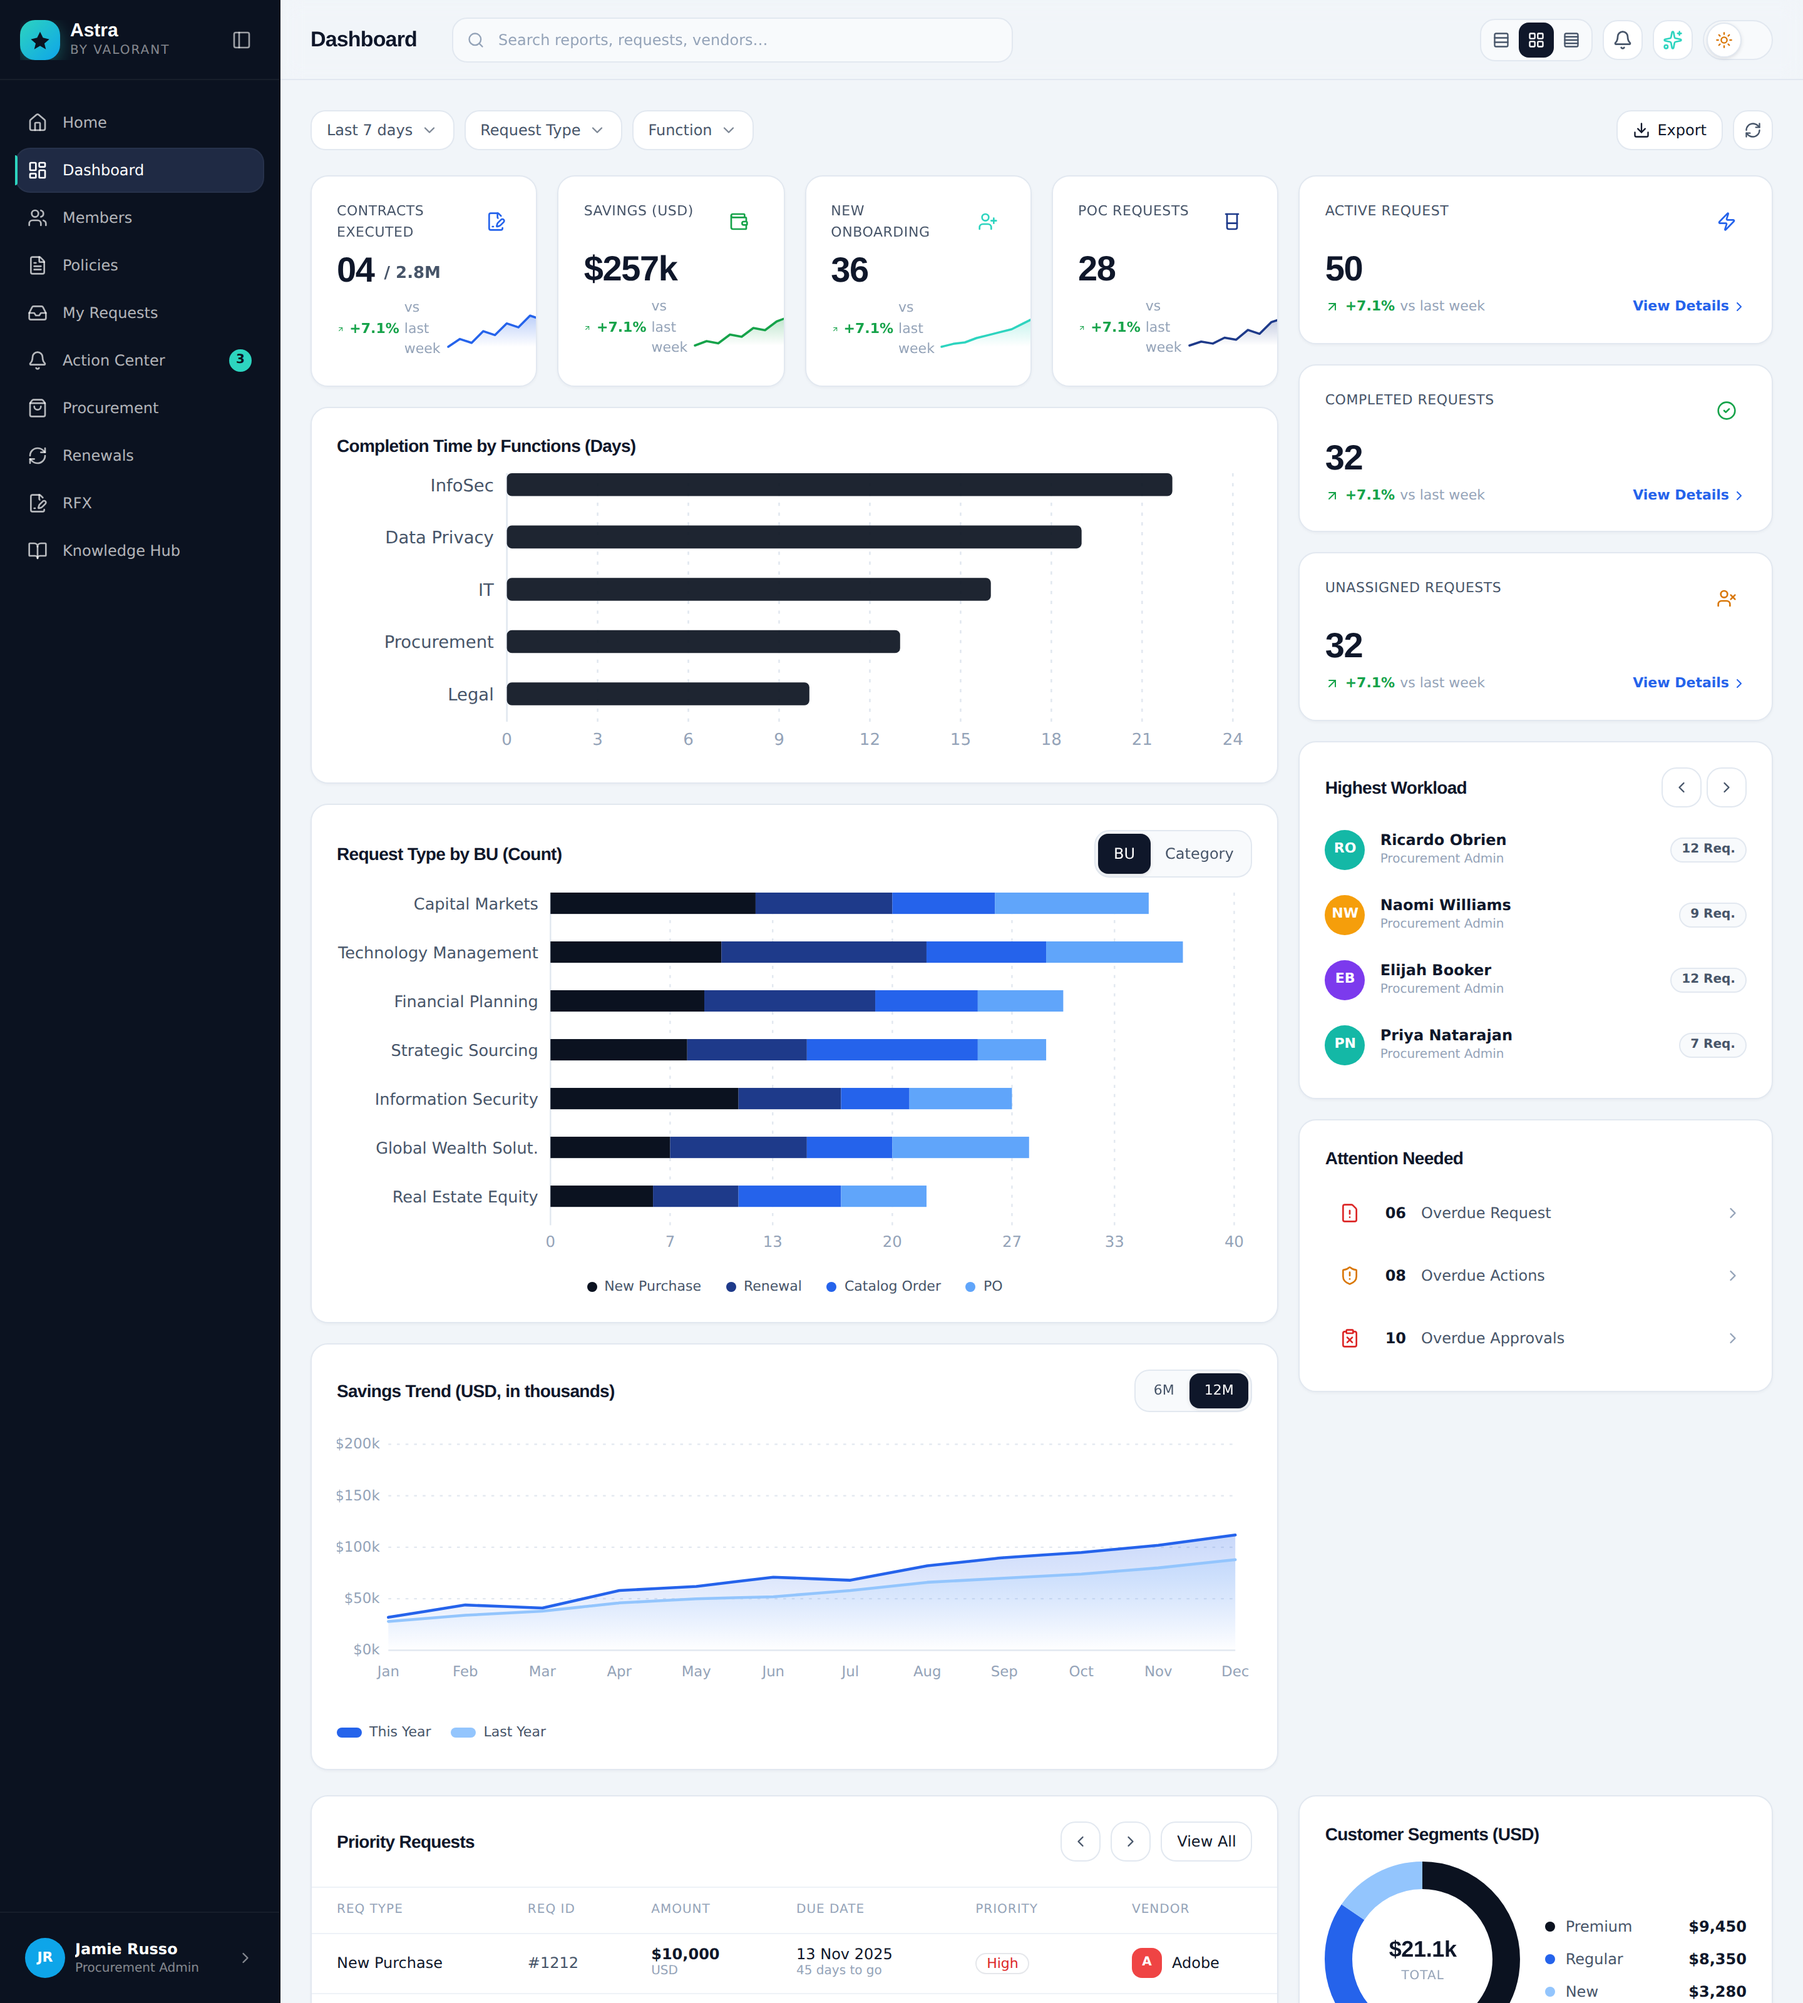
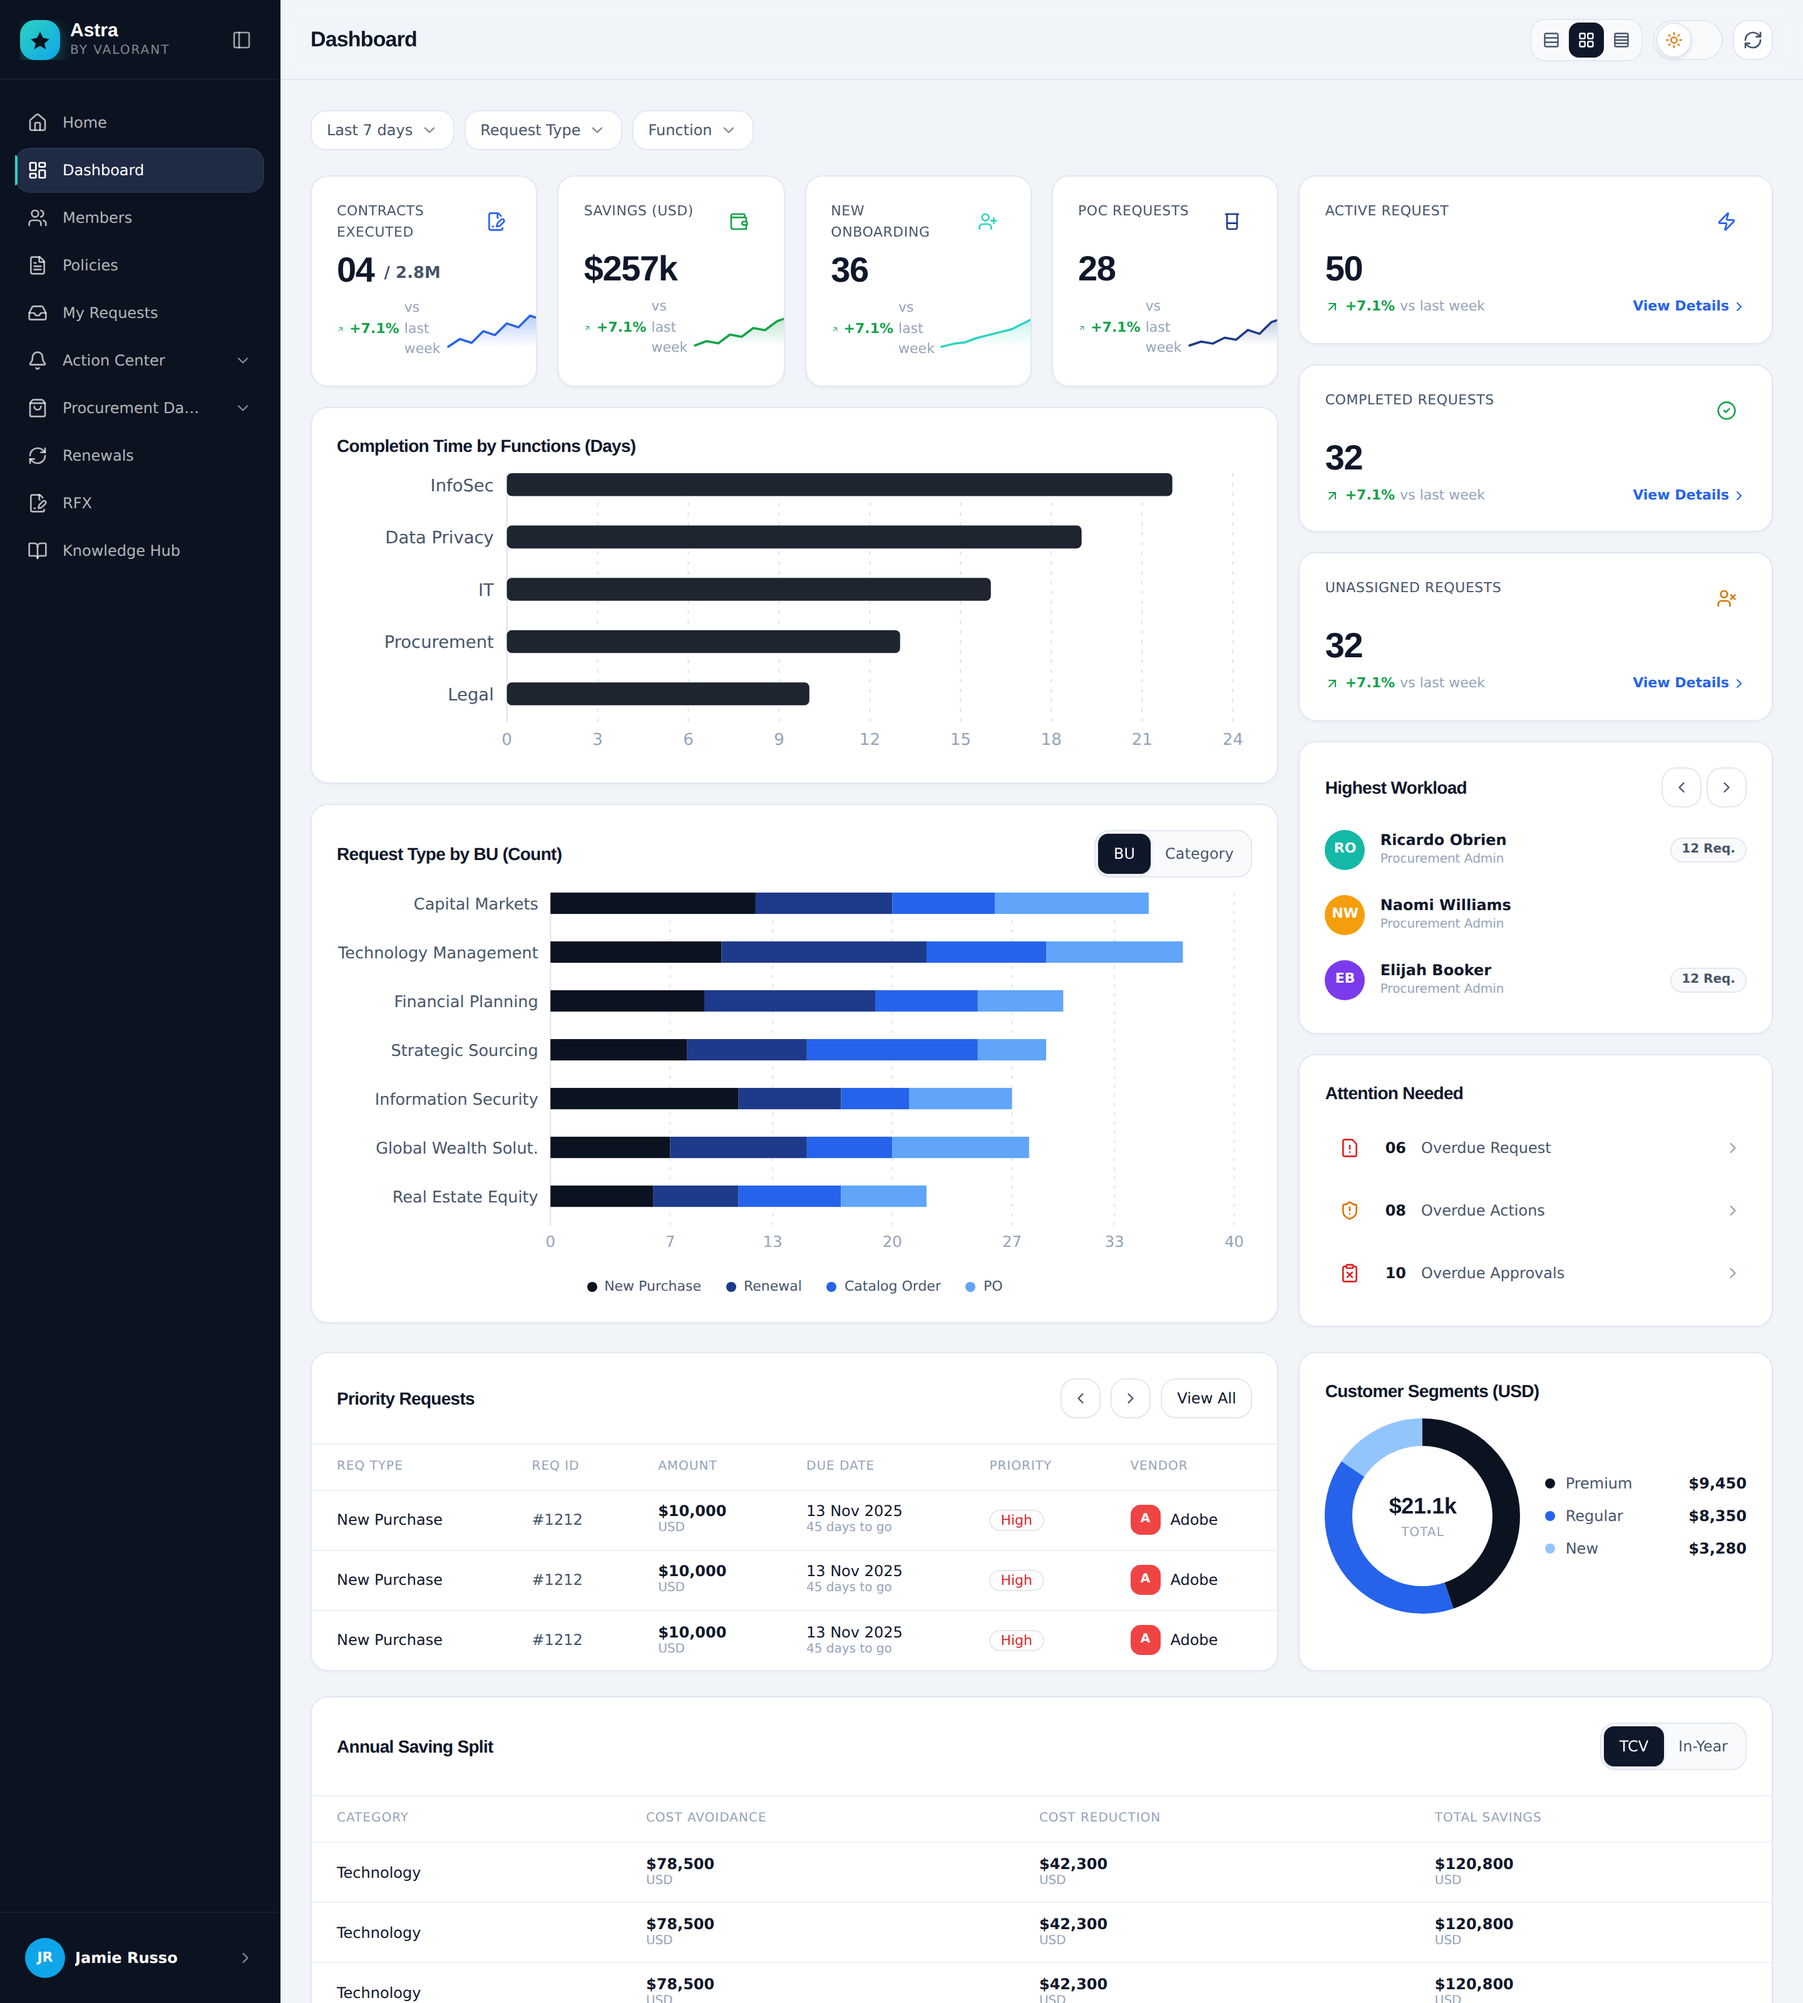
refactor: align dashboard to internal Figma design exactly
Trims extras that weren't in the Figma reference and matches the reference
data + layout pixel-for-pixel in both light and dark mode:

- Topbar: drop search, notifications, AI button; keep title + density +
  theme + refresh as per Figma
- Filters row: drop Export button + standalone refresh
- Sidebar: Action Center + Procurement are expandable (chevron-down),
  badge removed from Action Center; user block shows only name
- Page: drop Savings Trend chart (not in Figma)
- Data: Priority Requests 3 identical rows, Annual Savings 3 Technology
  rows, Workload list 3 people with badge on 1st + 3rd

diff --git a/components/layout/topbar.tsx b/components/layout/topbar.tsx
@@ -1,7 +1,7 @@
 "use client";
 
 import { motion, AnimatePresence } from "framer-motion";
-import { Moon, Sun, Search, Bell, Sparkles, LayoutGrid, Rows3, Rows4 } from "lucide-react";
+import { Moon, Sun, RefreshCw, LayoutGrid, Rows3, Rows4 } from "lucide-react";
 import { useUI, type Density } from "@/components/providers/ui-provider";
 import { IconButton } from "@/components/ui/icon-button";
 import { cn } from "@/lib/cn";
@@ -25,30 +25,12 @@ export function Topbar({ title }: { title: string }) {
         {title}
       </motion.h1>
 
-      <div className="hidden md:flex items-center ml-4 gap-2 flex-1 max-w-md">
-        <div className="flex-1 relative">
-          <Search className="absolute left-3 top-1/2 -translate-y-1/2 h-3.5 w-3.5 text-app-text-subtle" />
-          <input
-            placeholder="Search reports, requests, vendors…"
-            className={cn(
-              "w-full h-9 pl-9 pr-3 rounded-lg text-xs",
-              "bg-app-surface-2 border border-app-border text-app-text",
-              "placeholder:text-app-text-subtle",
-              "focus:outline-none focus:border-app-accent focus:ring-2 focus:ring-app-accent/20",
-            )}
-          />
-        </div>
-      </div>
-
       <div className="ml-auto flex items-center gap-2">
         <DensityControl density={density} onChange={setDensity} />
-        <IconButton aria-label="Notifications">
-          <Bell className="h-4 w-4" />
-        </IconButton>
-        <IconButton aria-label="AI assistant" title="AI insights">
-          <Sparkles className="h-4 w-4 text-app-teal" />
-        </IconButton>
         <ThemeToggle theme={theme} onToggle={toggleTheme} />
+        <IconButton aria-label="Refresh">
+          <RefreshCw className="h-4 w-4" />
+        </IconButton>
       </div>
     </header>
   );
@@ -56,9 +38,9 @@ export function Topbar({ title }: { title: string }) {
 
 function DensityControl({ density, onChange }: { density: Density; onChange: (d: Density) => void }) {
   const items: Array<{ v: Density; Icon: typeof Rows3; label: string }> = [
-    { v: "airy",      Icon: Rows3,    label: "Airy layout" },
-    { v: "balanced",  Icon: LayoutGrid, label: "Balanced layout" },
-    { v: "dense",     Icon: Rows4,    label: "Dense layout" },
+    { v: "airy",     Icon: Rows3,     label: "Airy layout"     },
+    { v: "balanced", Icon: LayoutGrid, label: "Balanced layout" },
+    { v: "dense",    Icon: Rows4,     label: "Dense layout"    },
   ];
   return (
     <div

diff --git a/components/layout/sidebar.tsx b/components/layout/sidebar.tsx
@@ -13,6 +13,7 @@ import {
   FileSignature,
   BookOpen,
   ChevronRight,
+  ChevronDown,
   PanelLeft,
 } from "lucide-react";
 import type { ComponentType, SVGProps } from "react";
@@ -24,7 +25,7 @@ type NavItem = {
   label: string;
   icon: ComponentType<SVGProps<SVGSVGElement>>;
   active?: boolean;
-  badge?: number;
+  expandable?: boolean;
 };
 
 const nav: NavItem[] = [
@@ -33,8 +34,8 @@ const nav: NavItem[] = [
   { label: "Members",        icon: Users },
   { label: "Policies",       icon: FileText },
   { label: "My Requests",    icon: Inbox },
-  { label: "Action Center",  icon: Bell, badge: 3 },
-  { label: "Procurement",    icon: ShoppingBag },
+  { label: "Action Center",  icon: Bell,         expandable: true },
+  { label: "Procurement Da…",icon: ShoppingBag,  expandable: true },
   { label: "Renewals",       icon: RefreshCw },
   { label: "RFX",            icon: FileSignature },
   { label: "Knowledge Hub",  icon: BookOpen },
@@ -96,7 +97,6 @@ export function Sidebar() {
             <>
               <div className="flex-1 min-w-0">
                 <div className="text-xs font-semibold text-white truncate">Jamie Russo</div>
-                <div className="text-[10px] text-white/50 truncate">Procurement Admin</div>
               </div>
               <ChevronRight className="h-3.5 w-3.5 text-white/50" />
             </>
@@ -127,10 +127,8 @@ function SidebarItem({ item, collapsed }: { item: NavItem; collapsed: boolean })
       )}
       <Icon className="h-4 w-4 shrink-0" />
       {!collapsed && <span className="flex-1 text-left truncate">{item.label}</span>}
-      {!collapsed && item.badge ? (
-        <span className="ml-auto inline-flex items-center justify-center min-w-[18px] h-[18px] px-1 rounded-full bg-app-teal text-[10px] font-semibold text-[color:var(--app-sidebar)]">
-          {item.badge}
-        </span>
+      {!collapsed && item.expandable ? (
+        <ChevronDown className="h-3.5 w-3.5 text-white/50 shrink-0" />
       ) : null}
     </button>
   );

diff --git a/components/dashboard/priority-requests.tsx b/components/dashboard/priority-requests.tsx
@@ -20,10 +20,9 @@ type Row = {
 };
 
 const rows: Row[] = [
-  { type: "New Purchase", id: "#1212", amount: "$10,000", due: "13 Nov 2025", daysToGo: "45 days to go", priority: "High",   vendor: "Adobe",   vendorInitial: "A", vendorColor: "#EF4444" },
-  { type: "New Purchase", id: "#1213", amount: "$10,000", due: "13 Nov 2025", daysToGo: "45 days to go", priority: "High",   vendor: "Adobe",   vendorInitial: "A", vendorColor: "#EF4444" },
-  { type: "Renewal",      id: "#1214", amount: "$ 8,400", due: "22 Nov 2025", daysToGo: "54 days to go", priority: "Medium", vendor: "Figma",   vendorInitial: "F", vendorColor: "#8B5CF6" },
-  { type: "Catalog Order",id: "#1215", amount: "$ 2,100", due: "05 Dec 2025", daysToGo: "67 days to go", priority: "Low",    vendor: "Notion",  vendorInitial: "N", vendorColor: "#0F172A" },
+  { type: "New Purchase", id: "#1212", amount: "$10,000", due: "13 Nov 2025", daysToGo: "45 days to go", priority: "High", vendor: "Adobe", vendorInitial: "A", vendorColor: "#EF4444" },
+  { type: "New Purchase", id: "#1212", amount: "$10,000", due: "13 Nov 2025", daysToGo: "45 days to go", priority: "High", vendor: "Adobe", vendorInitial: "A", vendorColor: "#EF4444" },
+  { type: "New Purchase", id: "#1212", amount: "$10,000", due: "13 Nov 2025", daysToGo: "45 days to go", priority: "High", vendor: "Adobe", vendorInitial: "A", vendorColor: "#EF4444" },
 ];
 
 const priorityTone: Record<Row["priority"], "danger" | "warning" | "success"> = {
@@ -58,7 +57,7 @@ export function PriorityRequests({ delay = 0 }: { delay?: number }) {
           <tbody>
             {rows.map((r, i) => (
               <motion.tr
-                key={r.id}
+                key={i}
                 initial={{ opacity: 0 }}
                 animate={{ opacity: 1 }}
                 transition={{ duration: 0.3, delay: delay + 0.12 + i * 0.04 }}

diff --git a/components/dashboard/workload-list.tsx b/components/dashboard/workload-list.tsx
@@ -6,13 +6,12 @@ import { Card, CardHeader } from "@/components/ui/card";
 import { Avatar } from "@/components/ui/avatar";
 import { IconButton } from "@/components/ui/icon-button";
 
-type Person = { name: string; role: string; requests: number };
+type Person = { name: string; role: string; requests?: number };
 
 const people: Person[] = [
-  { name: "Ricardo Obrien",  role: "Procurement Admin", requests: 12 },
-  { name: "Naomi Williams",  role: "Procurement Admin", requests: 9 },
-  { name: "Elijah Booker",   role: "Procurement Admin", requests: 12 },
-  { name: "Priya Natarajan", role: "Procurement Admin", requests: 7 },
+  { name: "Ricardo Obrien", role: "Procurement Admin", requests: 12 },
+  { name: "Naomi Williams", role: "Procurement Admin" },
+  { name: "Elijah Booker",  role: "Procurement Admin", requests: 12 },
 ];
 
 export function WorkloadList({ delay = 0 }: { delay?: number }) {
@@ -41,9 +40,11 @@ export function WorkloadList({ delay = 0 }: { delay?: number }) {
               <div className="text-xs font-semibold text-app-text truncate">{p.name}</div>
               <div className="text-[10px] text-app-text-subtle truncate">{p.role}</div>
             </div>
-            <span className="inline-flex items-center h-5 px-2 rounded-full bg-app-surface-2 border border-app-border text-[10px] font-semibold text-app-text-muted">
-              {p.requests} Req.
-            </span>
+            {p.requests !== undefined && (
+              <span className="inline-flex items-center h-5 px-2 rounded-full bg-app-surface-2 border border-app-border text-[10px] font-semibold text-app-text-muted">
+                {p.requests} Req.
+              </span>
+            )}
           </motion.li>
         ))}
       </ul>

diff --git a/components/dashboard/annual-savings.tsx b/components/dashboard/annual-savings.tsx
@@ -9,16 +9,14 @@ type Row = { category: string; avoidance: number; reduction: number };
 
 const DATA: Record<string, Row[]> = {
   TCV: [
-    { category: "Technology",      avoidance: 78500, reduction: 42300 },
-    { category: "Marketing",       avoidance: 64200, reduction: 38900 },
-    { category: "Facilities",      avoidance: 41300, reduction: 22500 },
-    { category: "Professional Svc",avoidance: 32100, reduction: 17400 },
+    { category: "Technology", avoidance: 78500, reduction: 42300 },
+    { category: "Technology", avoidance: 78500, reduction: 42300 },
+    { category: "Technology", avoidance: 78500, reduction: 42300 },
   ],
   "In-Year": [
-    { category: "Technology",      avoidance: 52300, reduction: 28800 },
-    { category: "Marketing",       avoidance: 40900, reduction: 24600 },
-    { category: "Facilities",      avoidance: 28700, reduction: 14100 },
-    { category: "Professional Svc",avoidance: 19800, reduction: 11200 },
+    { category: "Technology", avoidance: 52300, reduction: 28800 },
+    { category: "Technology", avoidance: 52300, reduction: 28800 },
+    { category: "Technology", avoidance: 52300, reduction: 28800 },
   ],
 };
 
@@ -56,7 +54,7 @@ export function AnnualSavings({ delay = 0 }: { delay?: number }) {
               const total = r.avoidance + r.reduction;
               return (
                 <motion.tr
-                  key={r.category}
+                  key={i}
                   initial={{ opacity: 0 }}
                   animate={{ opacity: 1 }}
                   transition={{ duration: 0.3, delay: delay + 0.12 + i * 0.04 }}

diff --git a/components/dashboard/filters-row.tsx b/components/dashboard/filters-row.tsx
@@ -1,10 +1,7 @@
 "use client";
 
 import { motion } from "framer-motion";
-import { RefreshCw, Download } from "lucide-react";
 import { FilterChip } from "@/components/ui/chip";
-import { IconButton } from "@/components/ui/icon-button";
-import { Button } from "@/components/ui/button";
 
 export function FiltersRow() {
   return (
@@ -17,14 +14,6 @@ export function FiltersRow() {
       <FilterChip label="Last 7 days" />
       <FilterChip label="Request Type" />
       <FilterChip label="Function" />
-      <div className="ml-auto flex items-center gap-2">
-        <Button variant="outline" size="sm">
-          <Download className="h-3.5 w-3.5" /> Export
-        </Button>
-        <IconButton aria-label="Refresh">
-          <RefreshCw className="h-3.5 w-3.5" />
-        </IconButton>
-      </div>
     </motion.div>
   );
 }

diff --git a/app/dashboard/page.tsx b/app/dashboard/page.tsx
@@ -11,7 +11,6 @@ import { AnnualSavings } from "@/components/dashboard/annual-savings";
 import { CustomerSegments } from "@/components/dashboard/customer-segments";
 import { CompletionTime } from "@/components/dashboard/completion-time";
 import { RequestTypeByBU } from "@/components/dashboard/request-by-bu";
-import { SavingsTrend } from "@/components/dashboard/savings-trend";
 import { FiltersRow } from "@/components/dashboard/filters-row";
 
 export default function DashboardPage() {
@@ -69,7 +68,6 @@ export default function DashboardPage() {
 
             <CompletionTime delay={0.1} />
             <RequestTypeByBU delay={0.14} />
-            <SavingsTrend delay={0.16} />
           </div>
 
           {/* RIGHT 1/3 */}
